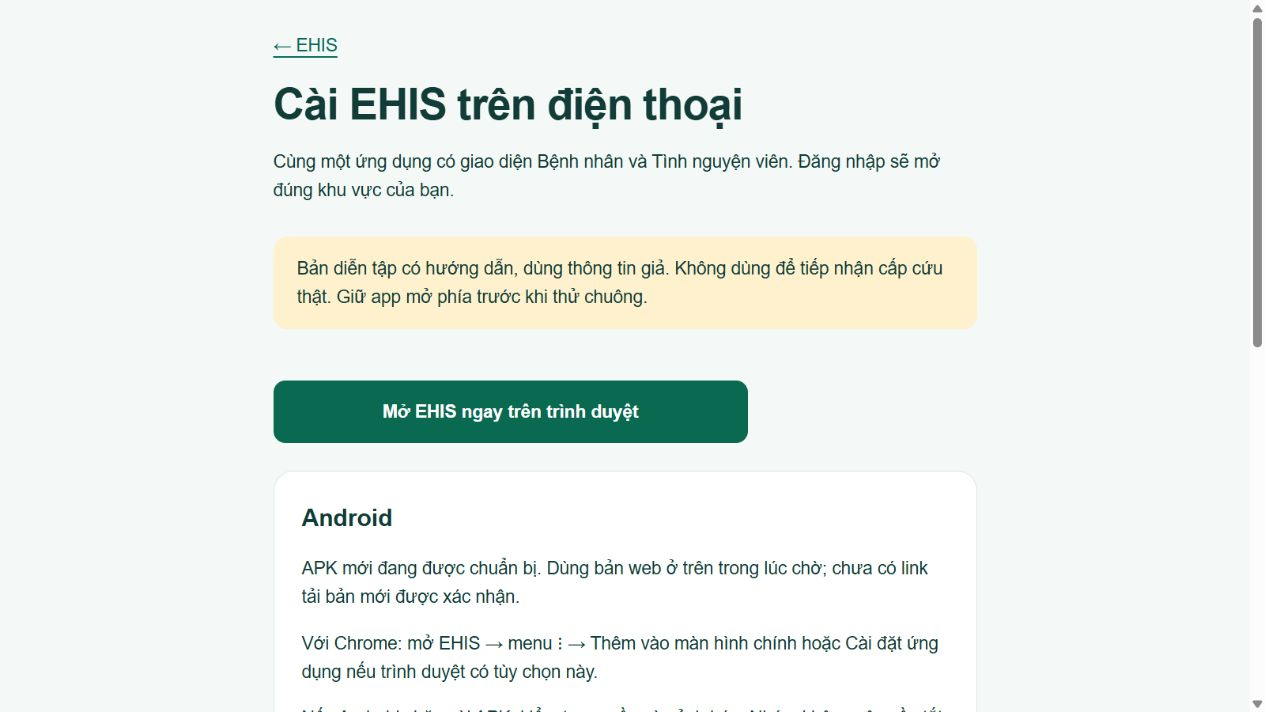
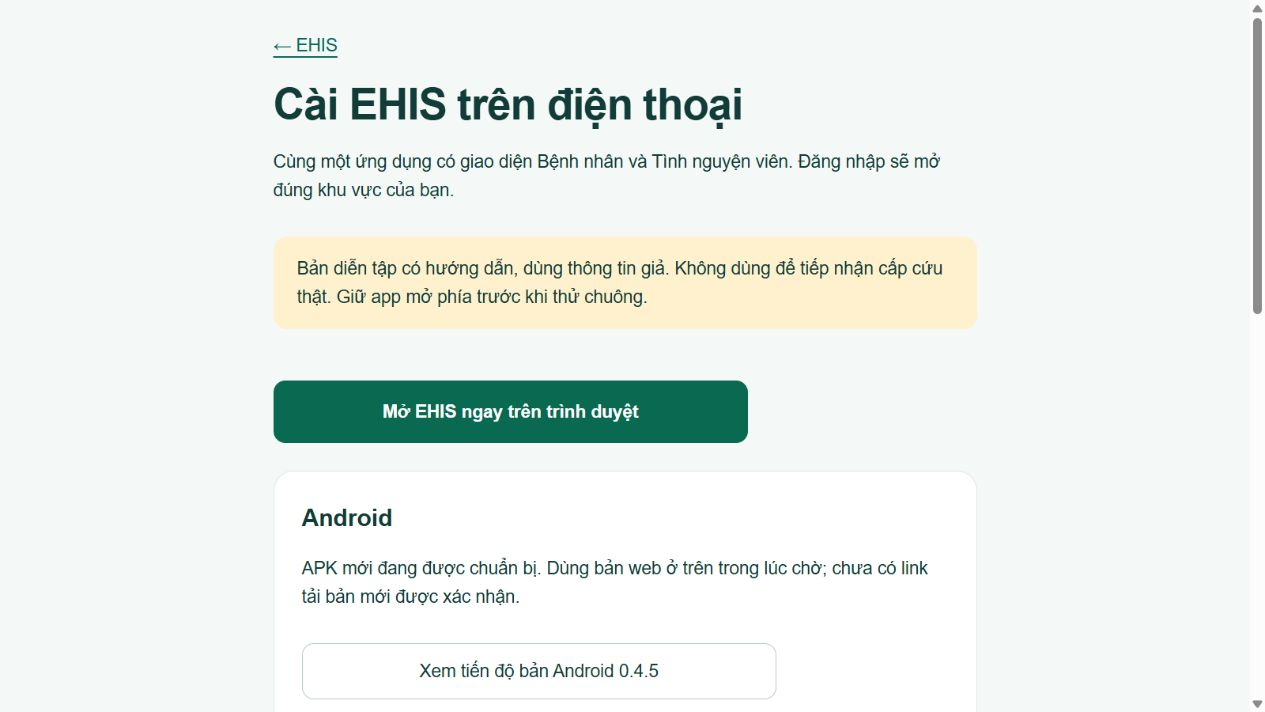
docs: confirm web handoff and pending EAS APK queue

diff --git a/docs/LAB_NOTES.md b/docs/LAB_NOTES.md
@@ -156,3 +156,5 @@ Ghi **mọi phiên có thay đổi** và kết quả quan sát: code, UI, cấu 
 - Đã đạt 27 unit/logic, 5 bộ integration. Lần dùng lại Emulator không sẵn sàng sau 90 giây; khởi động mới qua test:integration rồi 5 bộ PASS và dịch vụ tự dừng. Android/iOS JS export PASS, có WAV trong gói; introspection iOS/Android không xin microphone/audio background, có quyền vị trí/rung Android. Chưa phải IPA hoặc kiểm thử thiết bị.
 - Source app `7728b32`, CI 39982552257 SUCCESS. Hai website đã deploy bằng Hosting, 32 tệp HTML/JS/CSS cloud/local khớp; browser kiểm tra /install và QR thiếu mã vẫn có nút liên hệ (không bấm gọi 115). Lưu ảnh public chỉ giao diện không có dữ liệu bệnh nhân.
 - EAS đã nhận APK build `a989bd07-e2a7-49f5-a6ad-197bd6997fa7`, code 3, source sạch nêu trên; đang IN_QUEUE. Thêm link tiến độ thật trên /install để nhóm có thể xem Succeeded/Install khi EAS xử lý xong. Chưa gắn APK giả hoặc APK cũ dưới nhãn bản mới. Công cụ kiểm tra artifact xác minh source/version, manifest/quyền, bundle cloud, WAV và hash trước bàn giao.
+- Bàn giao web/link tiến độ source `7977971`, CI 39984732046 SUCCESS. Lần deploy link tiến độ đầu bị fetch failed; kiểm tra riêng backend HTTP 200/status ok/đúng project rồi thử lại deploy thành công. Đối chiếu lại 32 tệp PASS, browser xác nhận link EAS đúng build và lưu ảnh trang cài mới. 183 link nội bộ trong 23 tài liệu được kiểm tra không lỗi.
+- Trạng thái EAS lần bàn giao vẫn IN_QUEUE sau các lần kiểm tra giãn cách; chưa có APK FINISHED để chạy verify-trial-apk hoặc cài thiết bị. Link /install và trang EAS đã cung cấp, không coi queue là lỗi code hoặc tự nâng gói trả phí. Cần theo dõi build → artifact → nghiệm thu máy thật; chưa submit cửa hàng/IPA, chưa mở vận hành cấp cứu thật.

diff --git a/docs/PHONE_INSTALL_AND_LAUNCH.md b/docs/PHONE_INSTALL_AND_LAUNCH.md
@@ -49,6 +49,8 @@ Source app `7728b327957b91c01bc0f17248190363bfd94711`. Check: 27 bài unit/logic
 
 APK build [a989bd07](https://expo.dev/accounts/ehiss-team/projects/ehis-next/builds/a989bd07-e2a7-49f5-a6ad-197bd6997fa7) đã được EAS nhận, trạng thái quan sát gần nhất IN_QUEUE. Trang /install có link tiến độ; link APK trực tiếp chỉ điền khi kiểm tra FINISHED và artifact. Chưa xác nhận cài thiết bị. Không phát OTA, không submit store, không đổi backend/Rules/billing.
 
+Web/link tiến độ source `79779715be90307ea0a49c2fd6f06778a1a8573c` đã deploy, [CI 39984732046](https://github.com/Hoangcamng03/EHIS-Next/actions/runs/39984732046) SUCCESS và 32 đối chiếu artifact đạt lần cuối. Một lần deploy lỗi kết nối đã được kiểm tra lại health 200 rồi deploy thành công. Đường dẫn EAS được kiểm tra trên browser; trạng thái queue không phải xác nhận đã có tệp APK. Công cụ verify-trial-apk đã chuẩn bị/kiểm tra cú pháp nhưng chưa chạy với artifact mới vì build chưa hoàn tất.
+
 Ảnh kiểm tra: [trang cài](assets/trial-045/install.jpg), [QR lỗi vẫn có trợ giúp](assets/trial-045/invalid-qr-help.jpg).
 
 Audit mobile báo 9 high từ node-forge/grpc và chuỗi phụ thuộc. `npm update node-forge @grpc/grpc-js` không có bản vá tương thích được áp dụng; không hạ Expo/Firebase về major cũ theo gợi ý audit. Giữ là blocker bảo mật cho phát hành chính thức; đánh giá khả năng ảnh hưởng runtime/tooling với maintainer trước khi đóng.
